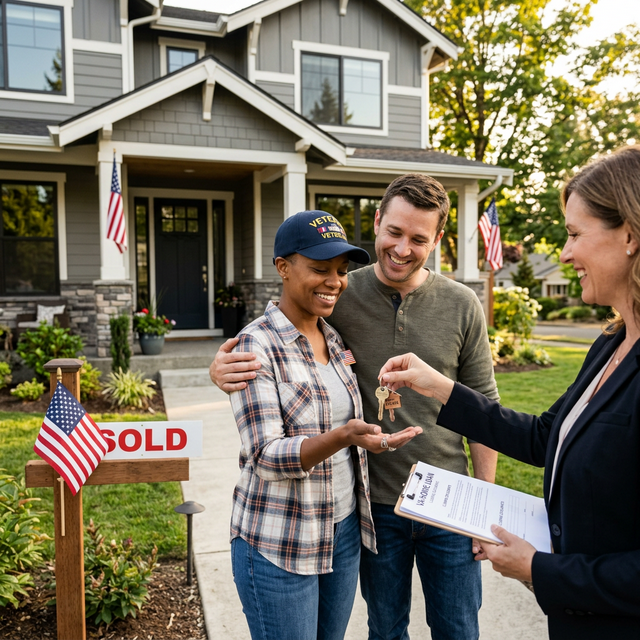
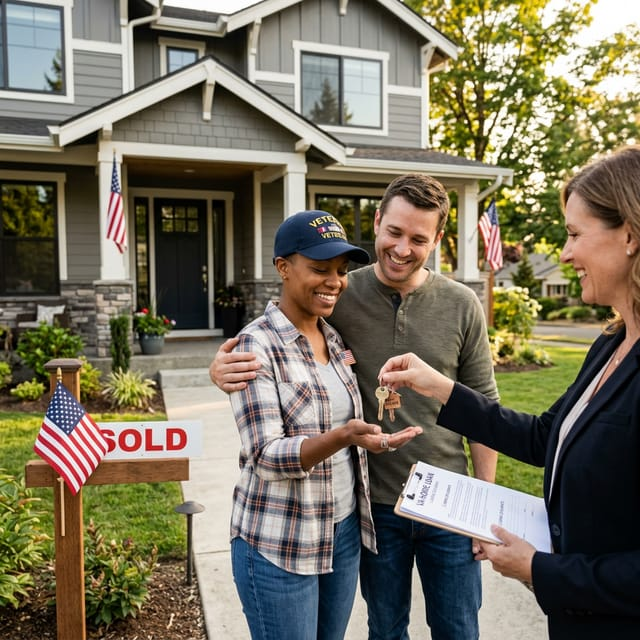
Final Polish: Standardized OG tags site-wide and optimized large image assets (#54)

diff --git a/va-benefits.html b/va-benefits.html
@@ -7,7 +7,7 @@
   <meta name="description" content="Hidden VA benefits most veterans miss. SAH grants up to $109,986, VMLI protection up to $200,000, auto grants, and more.">
   <meta property="og:title" content="VA Benefits Resource Center | Keneshia Haye — Jacksonville, FL">
   <meta property="og:description" content="Hidden VA benefits most veterans don't know about. SAH grants, VMLI mortgage protection, auto grants, and more. Free downloadable resources from veteran REALTOR Keneshia Haye.">
-  <meta property="og:image" content="https://keneshiahaye.com/images/keneshia-white-blazer.png?v=2026031101">
+  <meta property="og:image" content="https://keneshiahaye.com/images/keneshia-white-blazer.png?v=20260315">
   <meta property="og:image:width" content="1200">
   <meta property="og:image:height" content="630">
   <meta property="og:image:alt" content="Keneshia Haye, Veteran Real Estate Agent and VA Benefits Resource Center in Jacksonville, FL">

diff --git a/veterans.html b/veterans.html
@@ -7,7 +7,7 @@
   <meta name="description" content="Veteran-led real estate in Jacksonville, FL. Maximize VA loan benefits with an agent who understands military life and PCS moves.">
   <meta property="og:title" content="VA Home Loans &amp; Veteran Services | Keneshia Haye — Jacksonville, FL">
   <meta property="og:description" content="As a proud veteran, Keneshia Haye helps military families maximize VA benefits and find their dream home in Jacksonville, FL.">
-  <meta property="og:image" content="https://keneshiahaye.com/images/keneshia-white-blazer.png?v=2026031101">
+  <meta property="og:image" content="https://keneshiahaye.com/images/keneshia-white-blazer.png?v=20260315">
   <meta property="og:image:width" content="1200">
   <meta property="og:image:height" content="630">
   <meta property="og:image:alt" content="Keneshia Haye, Veteran Real Estate Agent specializing in VA home loans in Jacksonville, FL">

diff --git a/blog/jacksonville-neighborhoods-first-time-buyers.html b/blog/jacksonville-neighborhoods-first-time-buyers.html
@@ -7,7 +7,7 @@
   <meta name="description" content="Best neighborhoods in Jacksonville, FL for first-time homebuyers. Compare prices, schools, and lifestyle in Riverside, San Marco, Mandarin, and more.">
   <meta property="og:title" content="Best Jacksonville Neighborhoods for First-Time Homebuyers (2026)">
   <meta property="og:description" content="Find the perfect Jacksonville neighborhood for your first home. Compare prices, schools, and lifestyle across 6 top areas.">
-  <meta property="og:image" content="https://keneshiahaye.com/images/keneshia-blue-dress.png?v=2026031101">
+  <meta property="og:image" content="https://keneshiahaye.com/images/keneshia-blue-dress.png?v=20260315">
   <meta property="og:image:width" content="1200">
   <meta property="og:image:height" content="630">
   <meta property="og:image:alt" content="Keneshia Haye — Best Jacksonville Neighborhoods for First-Time Buyers">

diff --git a/blog/va-loan-changes-2026.html b/blog/va-loan-changes-2026.html
@@ -7,7 +7,7 @@
   <meta name="description" content="Major VA loan changes for 2026: higher loan limits, new agent commission rules, tax-deductible funding fees, and what Jacksonville veterans need to know.">
   <meta property="og:title" content="2026 VA Loan Changes: What Jacksonville Veterans Need to Know">
   <meta property="og:description" content="Higher loan limits, new agent commission rules, and tax-deductible funding fees. Here's what changed for VA buyers in 2026.">
-  <meta property="og:image" content="https://keneshiahaye.com/images/keneshia-blue-dress.png?v=2026031101">
+  <meta property="og:image" content="https://keneshiahaye.com/images/keneshia-blue-dress.png?v=20260315">
   <meta property="og:image:width" content="1200">
   <meta property="og:image:height" content="630">
   <meta property="og:image:alt" content="Keneshia Haye — 2026 VA Loan Changes for Jacksonville Veterans">

diff --git a/blog/moving-to-jacksonville-military.html b/blog/moving-to-jacksonville-military.html
@@ -7,7 +7,7 @@
   <meta name="description" content="2026 military relocation guide for Jacksonville, FL. NAS Jax, Mayport, Camp Blanding, BAH rates, neighborhoods near bases, and VA loan tips.">
   <meta property="og:title" content="PCS to Jacksonville? Your Complete Military Relocation Guide (2026)">
   <meta property="og:description" content="Everything service members need to know about relocating to Jacksonville, FL. Bases, neighborhoods, BAH, schools, and more.">
-  <meta property="og:image" content="https://keneshiahaye.com/images/keneshia-blue-dress.png?v=2026031101">
+  <meta property="og:image" content="https://keneshiahaye.com/images/keneshia-blue-dress.png?v=20260315">
   <meta property="og:image:width" content="1200">
   <meta property="og:image:height" content="630">
   <meta property="og:image:alt" content="Keneshia Haye — PCS to Jacksonville Military Relocation Guide">

diff --git a/areas/ponte-vedra.html b/areas/ponte-vedra.html
@@ -7,7 +7,7 @@
   <meta name="description" content="Looking for a real estate agent in Ponte Vedra Beach, FL? Keneshia Haye is a veteran-led REALTOR specializing in luxury coastal living near TPC Sawgrass.">
   <meta property="og:title" content="Real Estate Agent in Ponte Vedra, FL | Keneshia Haye">
   <meta property="og:description" content="Veteran-led real estate expert serving Ponte Vedra Beach, FL. Luxury coastal homes, TPC Sawgrass area, and Nocatee living.">
-  <meta property="og:image" content="https://keneshiahaye.com/images/stock/neighborhood-ponte-vedra.jpg">
+  <meta property="og:image" content="https://keneshiahaye.com/images/stock/neighborhood-ponte-vedra.jpg?v=20260315">
   <meta property="og:image:width" content="1200">
   <meta property="og:image:height" content="630">
   <meta property="og:image:alt" content="Keneshia Haye — Real Estate Agent in Ponte Vedra FL">

diff --git a/areas/st-augustine.html b/areas/st-augustine.html
@@ -7,7 +7,7 @@
   <meta name="description" content="Looking for a real estate agent in St. Augustine, FL? Keneshia Haye is a veteran-led REALTOR helping buyers and sellers in America's oldest city.">
   <meta property="og:title" content="Real Estate Agent in St. Augustine, FL | Keneshia Haye">
   <meta property="og:description" content="Veteran-led real estate expert serving St. Augustine, FL. Buy, sell, or invest in America's oldest city with personalized guidance.">
-  <meta property="og:image" content="https://keneshiahaye.com/images/stock/hero-real-estate.jpg">
+  <meta property="og:image" content="https://keneshiahaye.com/images/stock/hero-real-estate.jpg?v=20260315">
   <meta property="og:image:width" content="1200">
   <meta property="og:image:height" content="630">
   <meta property="og:image:alt" content="Keneshia Haye — Real Estate Agent in St. Augustine FL">

diff --git a/areas/green-cove-springs.html b/areas/green-cove-springs.html
@@ -7,7 +7,7 @@
   <meta name="description" content="Real estate agent in Green Cove Springs, FL. Keneshia Haye is a veteran-led REALTOR helping buyers and sellers in Clay County.">
   <meta property="og:title" content="Real Estate Agent in Green Cove Springs, FL | Keneshia Haye">
   <meta property="og:description" content="Veteran-led real estate expert serving Green Cove Springs, FL. Buy, sell, or invest with personalized guidance.">
-  <meta property="og:image" content="https://keneshiahaye.com/images/stock/neighborhood-riverside.jpg">
+  <meta property="og:image" content="https://keneshiahaye.com/images/stock/neighborhood-riverside.jpg?v=20260315">
   <meta property="og:image:width" content="1200">
   <meta property="og:image:height" content="630">
   <meta property="og:image:alt" content="Keneshia Haye — Real Estate Agent in Green Cove Springs FL">

diff --git a/blog/first-time-homebuyer-mistakes.html b/blog/first-time-homebuyer-mistakes.html
@@ -7,7 +7,7 @@
   <meta name="description" content="Avoid the 7 most common mistakes first-time homebuyers make in Jacksonville, FL. What not to do before, during, and after your first offer.">
   <meta property="og:title" content="7 Mistakes First-Time Homebuyers Make (And How to Avoid Them)">
   <meta property="og:description" content="Avoid costly pitfalls when buying your first home. Expert advice from Jacksonville REALTOR Keneshia Haye.">
-  <meta property="og:image" content="https://keneshiahaye.com/images/keneshia-blue-dress.png?v=2026031101">
+  <meta property="og:image" content="https://keneshiahaye.com/images/keneshia-blue-dress.png?v=20260315">
   <meta property="og:image:width" content="1200">
   <meta property="og:image:height" content="630">
   <meta property="og:image:alt" content="Keneshia Haye — 7 Mistakes First-Time Homebuyers Make">

diff --git a/areas/middleburg.html b/areas/middleburg.html
@@ -7,7 +7,7 @@
   <meta name="description" content="Looking for a real estate agent in Middleburg, FL? Keneshia Haye is a veteran-led REALTOR helping buyers and sellers in Middleburg and Clay County.">
   <meta property="og:title" content="Real Estate Agent in Middleburg, FL | Keneshia Haye">
   <meta property="og:description" content="Veteran-led real estate expert serving Middleburg, FL. Buy, sell, or invest with personalized guidance.">
-  <meta property="og:image" content="https://keneshiahaye.com/images/stock/neighborhood-riverside.jpg">
+  <meta property="og:image" content="https://keneshiahaye.com/images/stock/neighborhood-riverside.jpg?v=20260315">
   <meta property="og:image:width" content="1200">
   <meta property="og:image:height" content="630">
   <meta property="og:image:alt" content="Keneshia Haye — Real Estate Agent in Middleburg FL">

diff --git a/blog/va-loan-guide-jacksonville.html b/blog/va-loan-guide-jacksonville.html
@@ -7,7 +7,7 @@
   <meta name="description" content="VA loan guide for Jacksonville homebuyers in 2026. Eligibility, $0 down payment, no PMI, COE requirements, and why Jax is ideal for military buyers.">
   <meta property="og:title" content="VA Loan Guide: Buying a Home in Jacksonville, FL (2026)">
   <meta property="og:description" content="Everything you need to know about using your VA loan benefit to buy a home in Jacksonville.">
-  <meta property="og:image" content="https://keneshiahaye.com/images/keneshia-blue-dress.png?v=2026031101">
+  <meta property="og:image" content="https://keneshiahaye.com/images/keneshia-blue-dress.png?v=20260315">
   <meta property="og:image:width" content="1200">
   <meta property="og:image:height" content="630">
   <meta property="og:image:alt" content="Keneshia Haye — VA Loan Guide for Jacksonville Homebuyers">

diff --git a/areas/fleming-island.html b/areas/fleming-island.html
@@ -7,7 +7,7 @@
   <meta name="description" content="Looking for a real estate agent in Fleming Island, FL? Keneshia Haye is a veteran-led REALTOR in this family-friendly Clay County community.">
   <meta property="og:title" content="Real Estate Agent in Fleming Island, FL | Keneshia Haye">
   <meta property="og:description" content="Veteran-led real estate expert serving Fleming Island, FL. Buy, sell, or invest with personalized guidance.">
-  <meta property="og:image" content="https://keneshiahaye.com/images/stock/hero-real-estate.jpg">
+  <meta property="og:image" content="https://keneshiahaye.com/images/stock/hero-real-estate.jpg?v=20260315">
   <meta property="og:image:width" content="1200">
   <meta property="og:image:height" content="630">
   <meta property="og:image:alt" content="Keneshia Haye — Real Estate Agent in Fleming Island FL">
